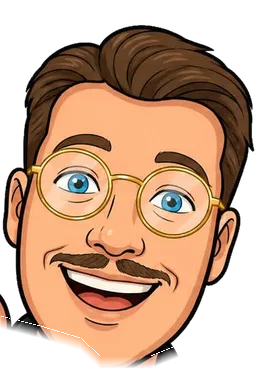
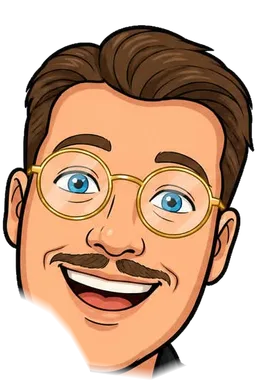
issue #537: tumrester+vita hårrester borta (alfa-overflow-bugg i fade klampad), hela käken/hakan kvar, showHat()-toggle

Changed region(s): [[0.0, 0.7507, 0.6943, 1.0]]

diff --git a/preview-trollkarl-figurer.html b/preview-trollkarl-figurer.html
@@ -29,6 +29,7 @@
     <div class="panel"><b>Uttryck (båda)</b><span id="exps"></span></div>
     <div class="panel"><b>Poser – klicka = Rasmus spelar, skift-klick = Elias</b><span id="poses"></span></div>
     <div class="panel"><b>Övrigt</b>
+      <button id="hats" class="on">Hattar PÅ</button>
       <button id="idle" class="on">Idle PÅ</button>
       <button id="events" class="on">Småhändelser PÅ</button>
       <button id="mirror">Spegla (byt sida)</button>
@@ -73,7 +74,14 @@
         setTimeout(() => w.play(qp.get("pose")), 300);
       }
 
-      let idleOn = true, evOn = true, sideSwap = false, glow = false;
+      let idleOn = true, evOn = true, sideSwap = false, glow = false, hatsOn = true;
+      if (qp.get("hatt") === "av") { hatsOn = false; both.forEach((w) => w.showHat(false)); }
+      document.getElementById("hats").onclick = function () {
+        hatsOn = !hatsOn;
+        both.forEach((w) => w.showHat(hatsOn));
+        this.classList.toggle("on", hatsOn);
+        this.textContent = "Hattar " + (hatsOn ? "PÅ" : "AV");
+      };
       document.getElementById("idle").onclick = function () {
         idleOn = !idleOn;
         both.forEach((w) => w.setIdle(idleOn));

diff --git a/src/live/trollkarl/trollkarl-figur.js b/src/live/trollkarl/trollkarl-figur.js
@@ -231,6 +231,7 @@ export function createWizard(host, { who = "rasmus", facing = "right", reducedMo
     layer(name) { return parts[LAYERS[name]] || null; },
     transform,
     reset,
+    showHat(on) { parts.hat.style.display = on === false ? "none" : ""; },
     get transformed() { return transformed; },
     get expression() { return shownExp; },
     setFacing(dir) { mirrored = dir === "left"; applyFacing(); },
